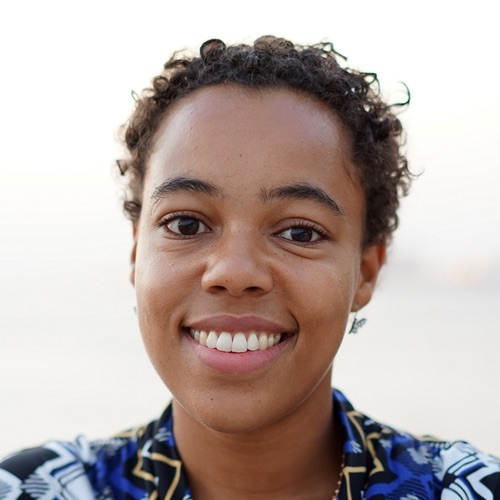
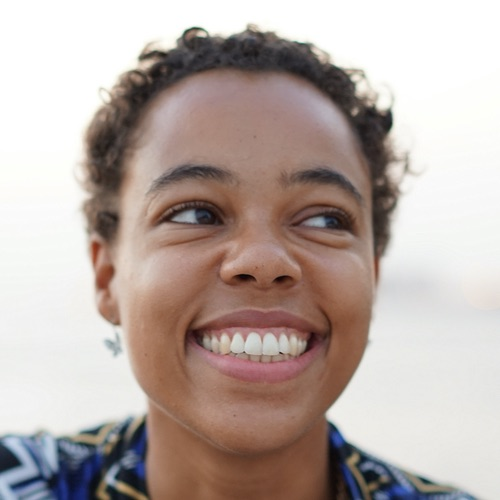
Add 2020 draft schedule and speaker pictures

diff --git a/_includes/speaker_avatars.html b/_includes/speaker_avatars.html
@@ -1,0 +1,26 @@
+<div class="row">
+   <div class="col mb-5">
+     <p class="h1">
+       Lovely Speakers. <a href="https://cfp.brightonruby.com" class="btn btn-outline-light">Be a speaker</a><br />
+       <small>A handful for now</small>
+
+     </p>
+
+     {% assign ordered_posts = site.posts | sort: 'date' %}
+     <div class="row my-3">
+       {% for post in ordered_posts %}
+         {% assign post_year = post.date | date: "%Y" %}
+         {% if post_year == include.year %}
+           {% if post.break != true %}
+             {% assign author = site.data.authors[post.author] %}
+             <div class="col-4 col-md-3">
+               <a href="https://twitter.com/{{ author.twitter }}">
+                 <img src="{{ author.image }}" class="img-fluid mb-4" alt="{{ author.name }}" />
+               </a>
+             </div>
+           {% endif %}
+         {% endif %}
+       {% endfor %}
+     </div>
+   </div>
+</div>

diff --git a/_layouts/schedule.html b/_layouts/schedule.html
@@ -24,7 +24,7 @@ layout: default
 
 <article>
   <div class="row">
-    <div class="col-9">
+    <div class="col col-md-9">
       <h1 class="h1">
         <small><a href="/{{ page.date | date: "%Y" }}">{{ page_year }}</a></small><br />
         {{ page.date | date: "%A, %-d" }}{{ ordinal }} {{ page.date | date: "%B"  }}

diff --git a/index.html b/index.html
@@ -22,6 +22,8 @@ image: 'images/twitter-image.jpg'
   </div>
 </div>
 
+{% include speaker_avatars.html year='2020' %}
+
 <div class="row">
   <div class="col">
     <p class="h1 mb-4">

diff --git a/_posts/2020/2020-07-03-just-simply-emma-barnes.md b/_posts/2020/2020-07-03-just-simply-emma-barnes.md
@@ -1,0 +1,15 @@
+---
+title: From Developer to Architect (and back again)
+author: emmabarnes
+date: '2020-07-03 11:30'
+layout: preview
+vimeo:
+# image: "/images/2019/from-developer-to-architect-and-back-again-matthew-rudy-jacobs.jpg"
+description: "A talk that’s painfully simple, really obvious and frighteningly easy"
+---
+
+Emma wants to explain how trivial your work is, nowadays. After all, there are so many gems, libraries and frameworks that make your work as developers painfully simple, really obvious and frighteningly easy. All you have to do is just use them: they make programming painless!
+
+Except she won't. Expanding on her [justsimply.dev](https://justsimply.dev) manifesto, Emma will share some of the most egregious examples of technical documentation that infuriate rather than help. And she'll provide useful advice to keep your technical writing friendly, supportive and impactful.
+
+And yes. All the phrases in the first paragraph are from real world documentation. By the end of this talk you'll have resolved not to put people off using the code you’ve worked so hard to create. Because if someone’s having to read your docs, _it’s not “simple”_.

diff --git a/_posts/2020/2020-07-03-the-lessons-i-never-wanted-to-learn-allison-mcmillan.md b/_posts/2020/2020-07-03-the-lessons-i-never-wanted-to-learn-allison-mcmillan.md
@@ -1,0 +1,15 @@
+---
+title: The Lessons I Never Wanted to Learn
+author: allisonmcmillan
+date: '2020-07-03 17:00'
+layout: preview
+vimeo:
+# image: "/images/2019/defragging-ruby-aaron-patterson.jpg"
+description: "It’s been said that programmers like garbage collectors, so let’s take a look at Ruby’s GC!"
+---
+
+The lessons we are forced to learn as parents make us better managers, leaders, and teammates. Parenting is stressful, difficult, and changes the very essence of your being. It gives you high highs and low lows. It forces individuals to reconcile their personality and approaches with these new tiny humans they’ve brought in to the world.
+
+Parents are challenged to think differently and leave their comfort zone in ways they could have never imagined. When I became a parent, I had read the books and done the research and yet still, I was completely unprepared for the challenges that awaited me.
+
+Learn about how these new perspectives impact the way you think about teamwork, conflict, compromise, and communication on engineering teams.

diff --git a/_posts/2020/2020-07-03-how-to-become-a-developer-with-no-time-and-no-money-amina-adewusi.md b/_posts/2020/2020-07-03-how-to-become-a-developer-with-no-time-and-no-money-amina-adewusi.md
@@ -1,0 +1,11 @@
+---
+title: How to Become a Developer with No Time and No Money
+author: aminaadewusi
+date: '2020-07-03 14:30'
+layout: preview
+vimeo:
+# image: "/images/2019/embracing-openness-in-open-source-amina-adewusi.jpg"
+description: "How you avoid stumbling blocks when you start out in Open Source projects"
+---
+
+Amina will share her story about what it takes to become a developer after teaching herself how to code, juggling a full-time job and baby. She will offer advice on how developers and managers can shape our engineering community by supporting new developers.

diff --git a/_posts/2020/2020-07-03-building-rubyfmt-penelope-phippen.md b/_posts/2020/2020-07-03-building-rubyfmt-penelope-phippen.md
@@ -1,0 +1,13 @@
+---
+title: Building Rubyfmt
+author: penelopephippen
+date: '2020-07-03 15:00'
+layout: preview
+vimeo:
+# image: "/images/2019/embracing-openness-in-open-source-amina-adewusi.jpg"
+description: "Cursedly obsessed with the Ruby parser"
+---
+
+Why build a super-fast code-formatter for Ruby given there is no written standard for how Ruby is supposed to work.
+
+To develop a superpower: an extremely cursed knowledge of the Ruby programming language’s grammar.

diff --git a/_posts/2020/2020-07-03-rails-conf-keynote-eileen-uchitelle.md b/_posts/2020/2020-07-03-rails-conf-keynote-eileen-uchitelle.md
@@ -1,0 +1,11 @@
+---
+title: Fresh from Keynoting RailsConf
+author: eileenuchitelle
+date: '2020-07-03 10:00'
+layout: preview
+vimeo:
+# image: "/images/2019/from-developer-to-architect-and-back-again-matthew-rudy-jacobs.jpg"
+description: "A multiple RailsConf keynoter and core Rails team member"
+---
+
+To come

diff --git a/_posts/2020/2020-07-03-welcome-code-of-conduct-andy-croll.md b/_posts/2020/2020-07-03-welcome-code-of-conduct-andy-croll.md
@@ -1,0 +1,8 @@
+---
+title: Welcome & Code of Conduct
+author: andycroll
+date: '2020-07-03 09:30'
+layout: preview
+#image: '/images/2018/welcome-code-of-conduct-andy-croll.jpg'
+description: 'Welcome & Code of Conduct'
+---

diff --git a/_posts/2020/2020-07-03-break-registration.md b/_posts/2020/2020-07-03-break-registration.md
@@ -1,0 +1,5 @@
+---
+title: Doors Open & Registration
+date: '2020-07-03 08:30'
+break: true
+---

diff --git a/_posts/2020/2020-07-03-break-am.md b/_posts/2020/2020-07-03-break-am.md
@@ -1,0 +1,5 @@
+---
+title: Break
+date: '2020-07-03 11:00'
+break: true
+---

diff --git a/_posts/2020/2020-07-03-break-lunch.md b/_posts/2020/2020-07-03-break-lunch.md
@@ -1,0 +1,5 @@
+---
+title: Lunch
+date: '2020-07-03 12:40'
+break: true
+---
